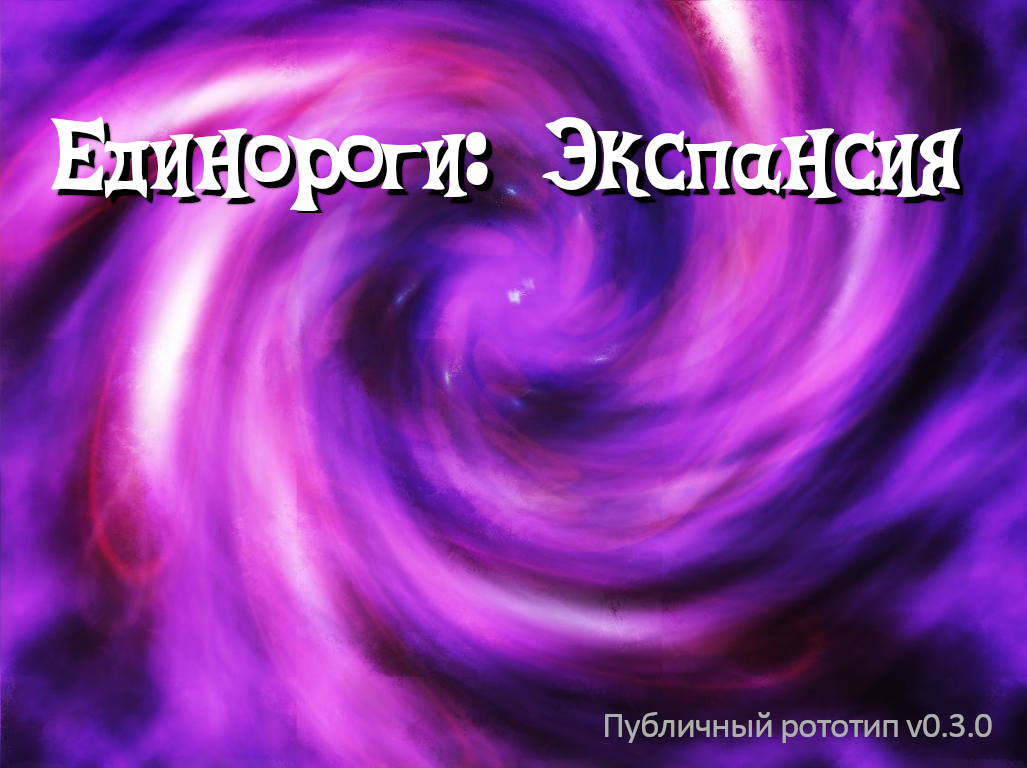
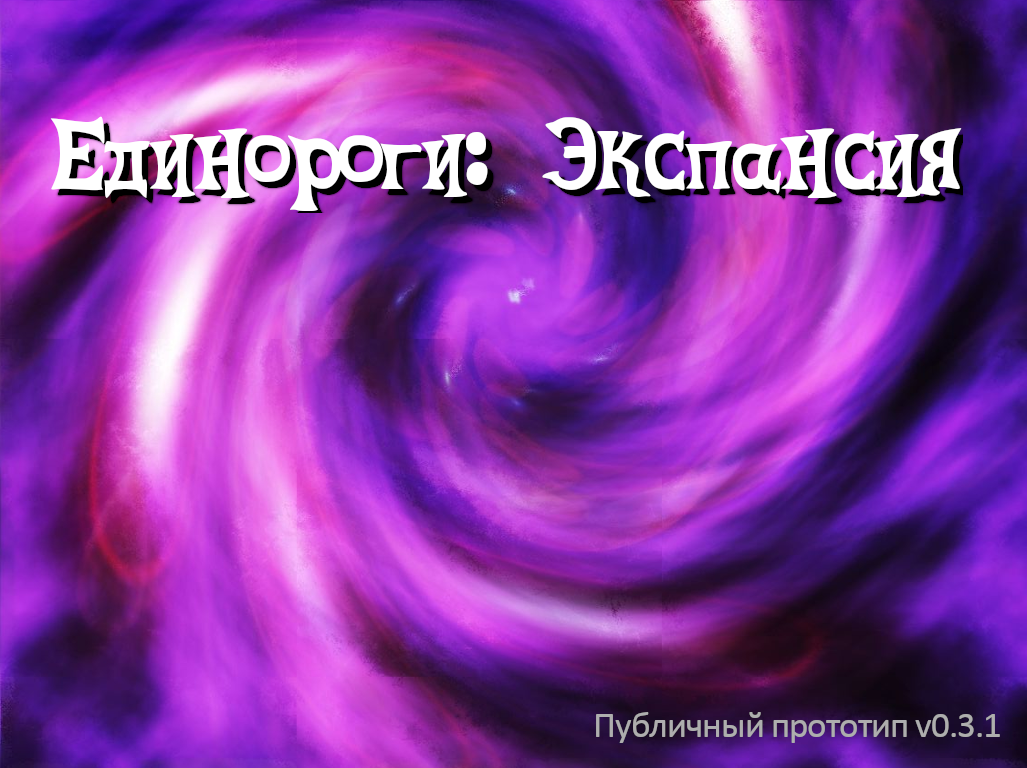
fix: Замена типа сжатия архива на Deflate для совместимости с Проводником Windows, каталог для данных теперь data, а не текущий, и замена версии в заставке.

Changed region(s): [[0.5609, 0.9062, 0.9659, 0.9688]]

diff --git a/UnicornExpansion/UnicornExpansion/main.cpp b/UnicornExpansion/UnicornExpansion/main.cpp
@@ -241,7 +241,7 @@ int main(int argc, char * argv[])
     if (argc > 1)
         std::filesystem::current_path(std::string(argv[1]));
     else
-        std::filesystem::current_path(exedir);
+        std::filesystem::current_path(exedir+"\\data");
     
     texts.loadFromFile("strings.txt");
 
